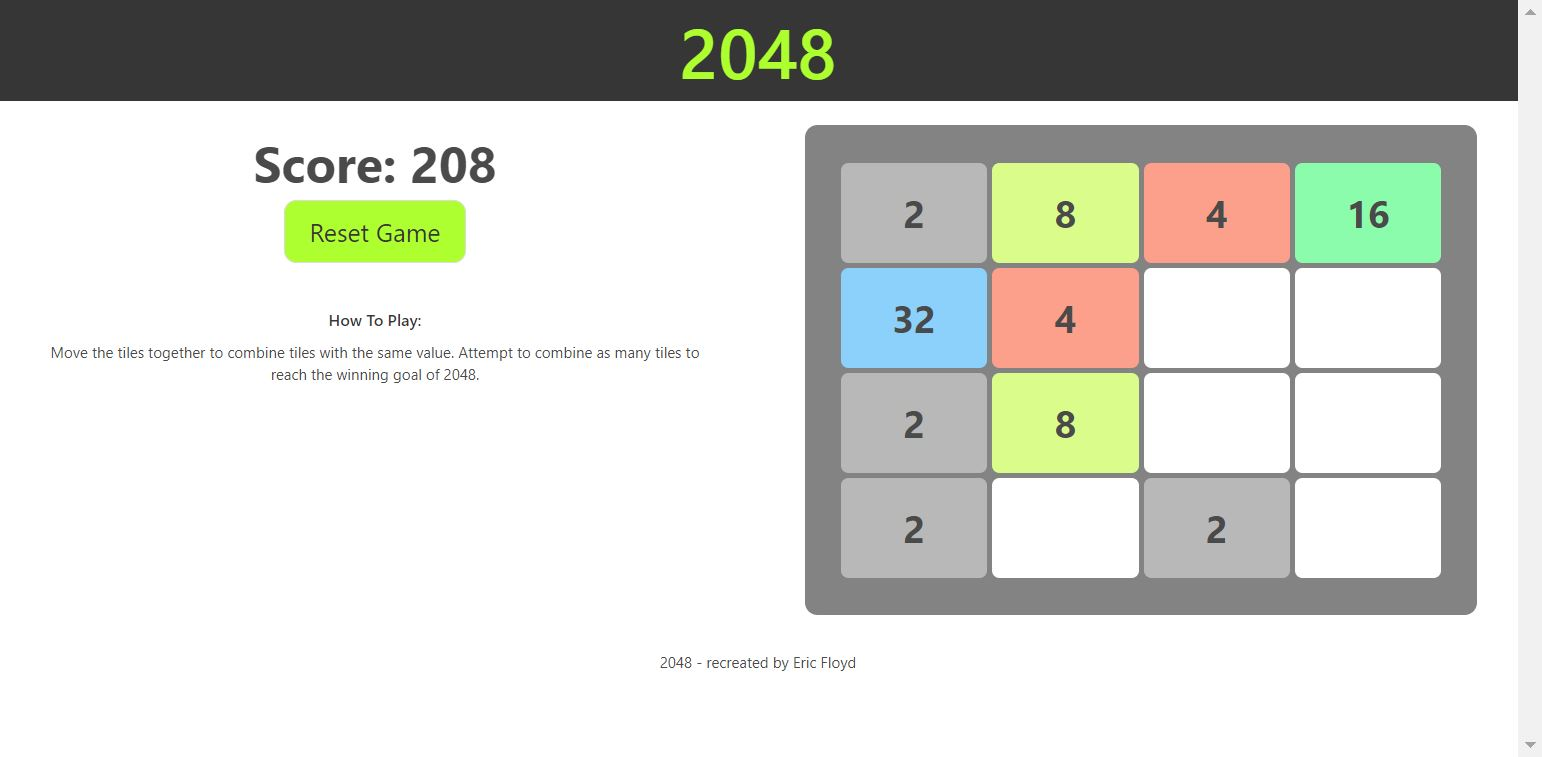
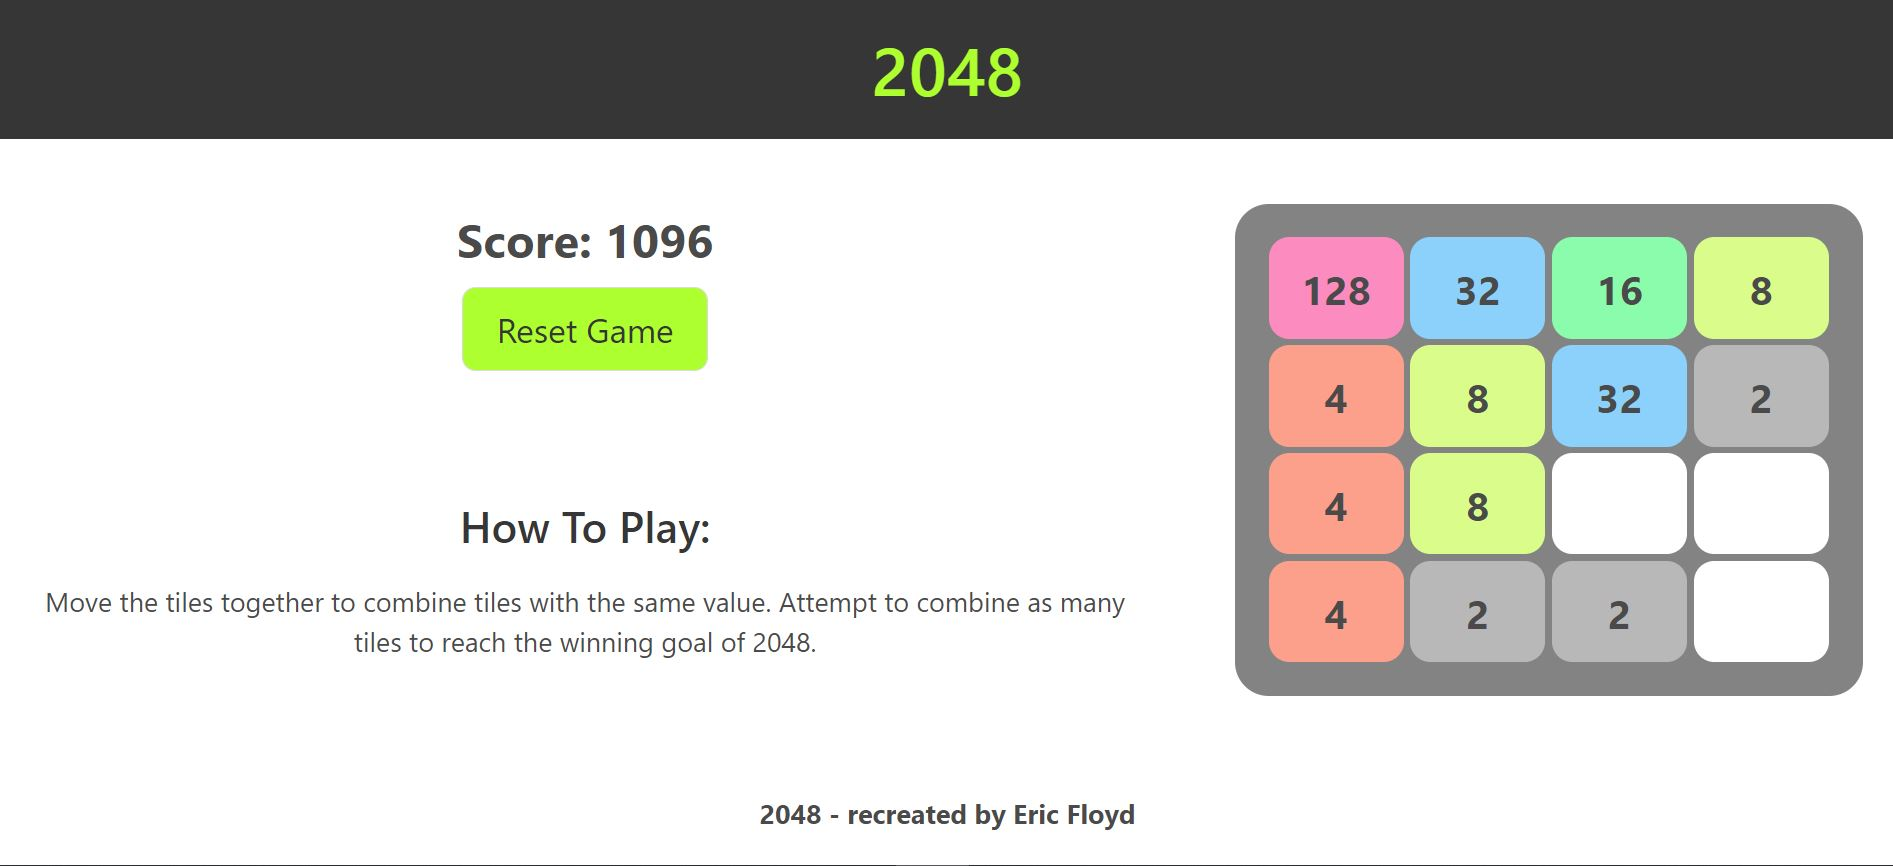
Updating UI

diff --git a/custom_style.css b/custom_style.css
@@ -2,11 +2,12 @@
     border-radius: 25px;
     display: grid;
     justify-content: center;
-    grid-template-columns: 24.5% 24.5% 24.5% 24.5%;
-    grid-template-rows: 100px 100px 100px 100px;
+    column-width: 430px;
+    grid-template-columns: 100px 100px 100px 100px;
+    grid-template-rows: 75px 75px 75px 75px;
     grid-gap: 5px;
     background-color: rgb(131, 131, 131);
-    padding: 35px;
+    padding: 25px;
 }
 
 div.tile {

diff --git a/index.html b/index.html
@@ -41,7 +41,7 @@
                 </div>
             </section>
         </div>
-        <div class='column'>
+        <div class='column is-narrow'>
             <section class='section'>
                 <div id='area' class='container'>
                     <div class='grid-container'>
